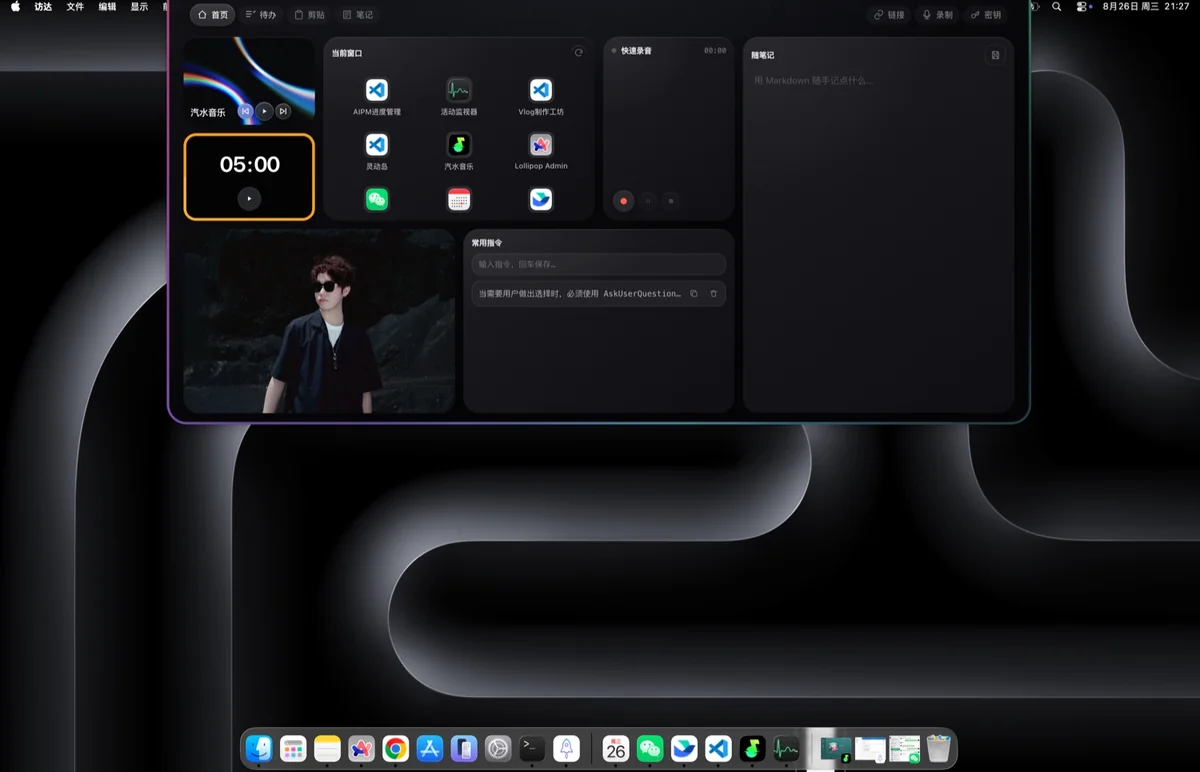
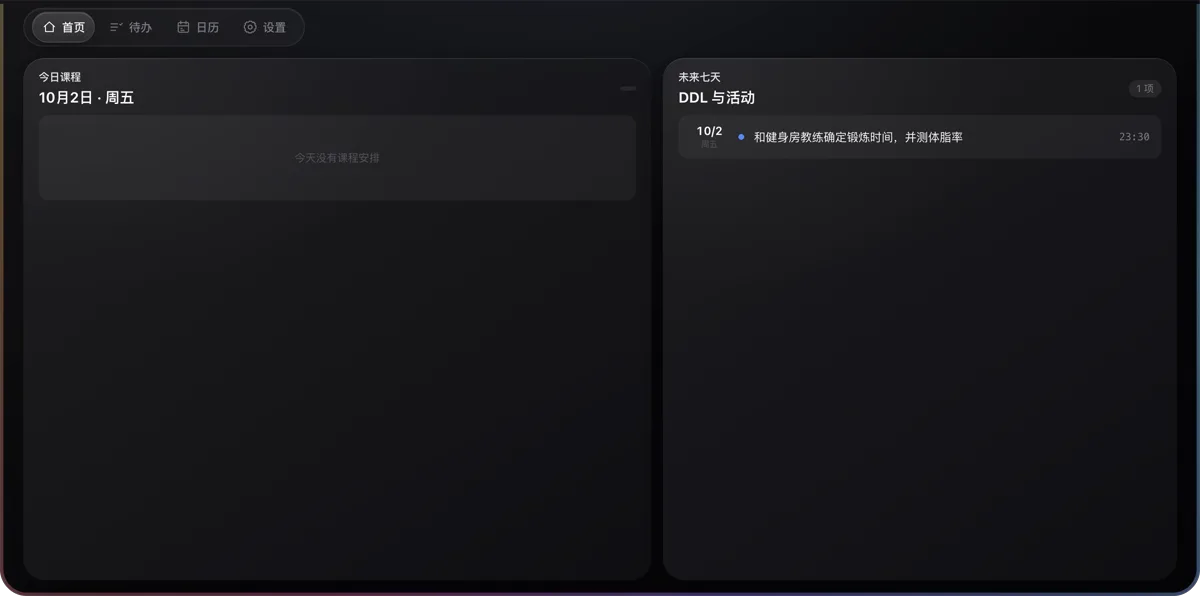
feat: TO-DO Panel 条目更新到 1.2.5（日历/课表导入/三档提醒）+ 实机截图

diff --git a/非交付部分/V3/homepage/src/data/site.js b/非交付部分/V3/homepage/src/data/site.js
@@ -242,31 +242,36 @@ export const projects = [
     id: 'todo-panel',
     icon: '📌',
     title: 'TO-DO Panel 桌面面板定制',
-    short: '给开源桌面面板加上数据写入通道与新组件（上游：xiaopu-ai/TO-DO Panel）',
-    desc: 'TO-DO Panel 是一个常驻 macOS / Windows 屏幕顶部的本地工作台（MIT 开源）。我在自己机器上对它做了本地定制：<strong>加了一条可靠的数据写入通道</strong>，并把课程表与所有作业截止日期统一接进来。',
+    short: '给开源桌面面板加数据写入通道、日历页与课表导入，从 1.1 深度定制到 1.2.5（上游：xiaopu-ai/TO-DO Panel）',
+    desc: 'TO-DO Panel 是一个常驻 macOS / Windows 屏幕顶部的本地工作台（MIT 开源）。我在自己机器上对它做了一路深度定制：先加了<strong>可靠的数据写入通道</strong>，再自己长出<strong>日历页、学期课表导入、今日课程 + 未来七天首页、三档截止提醒</strong>，把它从一个通用面板改成了自己的学业中枢。',
     tech: 'Electron / JavaScript',
     role: '本地二次开发（上游：xiaopu-ai/TO-DO Panel，MIT 许可）',
     images: [
-      { src: asset('projects/todo-panel/card.webp'), alt: 'TO-DO Panel 工作台：音乐/番茄钟/随笔记等模块' },
-      { src: asset('projects/todo-panel/home.webp'), alt: 'TO-DO Panel 首页工作台' },
-      { src: asset('projects/todo-panel/todo.webp'), alt: 'TO-DO Panel 待办页面' },
+      { src: asset('projects/todo-panel/calendar.webp'), alt: '日历页：月视图 + 真实学期课表 + 右侧当天安排（均为自己加的 1.2.x 功能）' },
+      { src: asset('projects/todo-panel/home.webp'), alt: '首页改版：今日课程 + 未来七天 DDL（1.2.2）' },
+      { src: asset('projects/todo-panel/todo.webp'), alt: '待办页面：课表与作业截止统一进四个象限' },
+      { src: asset('projects/todo-panel/card.webp'), alt: '工作台全貌：音乐/番茄钟/随笔记等模块' },
     ],
-    long: `> **先说清楚边界**：TO-DO Panel 是 **xiaopu-ai 开发的开源项目**（MIT 许可），不是我原创的产品。我做的是**本机二次开发**——在它上面补我想要的能力。这一条对课程和面试都重要，所以写在最前面。
+    long: `> **先说清楚边界**：TO-DO Panel 是 **xiaopu-ai 开发的开源项目**（MIT 许可），不是我原创的产品。我做的是**本机二次开发**——从 1.1 一路定制到自己的 1.2.5，下面每一项都是我加的。这一条对课程和面试都重要，所以写在最前面。
 
-### 它原本的痛点
-这个面板把数据存在浏览器本地存储里，**渲染层每 2 秒会把整份数据回写一次**。所以想用脚本往里面加任务，直接改数据文件必然被冲掉。
+### 第一步：打通数据（解决"灌不进去"）
+面板把数据存在浏览器本地存储里，**渲染层每 2 秒会把整份数据回写一次**——脚本直接改数据文件必然被冲掉。我加了一条 **HTTP 写入通道**：主进程接收请求、经 IPC 交给渲染层，让渲染层自己落盘，从根上绕开回写。现在一条命令就能把课表和待办批量灌进去，还能查询与删除。
 
-### 我做的改造
-- **加了一条 HTTP 写入通道**：由主进程接收请求、通过 IPC 交给渲染层，让**渲染层自己落盘**，从根上绕开被回写冲掉的问题。现在可以用一条命令把课表和待办批量灌进去，还能查询与删除
-- **接入了我的真实学业数据**：课程表（学期、课程、上课时间与周次）、作业截止日期、任务分类标签，全部统一进四个象限
-- **把流程固化下来**：写了「备份 → 改 → 语法检查 → 跑测试 → 重签 → 重启并端到端验证」的固定六步流程，并沉淀成一个可复用的技能；另配了一个专职子 agent 负责日程汇总与面板改装
+### 第二步：长出自己的功能（1.2.0 → 1.2.5）
+写入通道有了之后，围绕"把学业真正管起来"连做了五个版本：
+- **日历页（1.2.0）**：月视图大格子（周一起始、相邻月淡显），年月切换 + 今天回跳，右侧"当天安排"栏聚合当天课程与截止作业
+- **学期课表导入（1.2.1）**：写规则 JSON（学期周次、起止窗口、假期排除、单日特殊时段），自动按周展开成具体日期课次；重复导入幂等覆盖，手动加的课不受影响
+- **首页改版（1.2.2）**：改成"今日课程 + 未来七天"——左边当天课的时间/教室/教师，右边未来 7 天 DDL 按截止时间排序；课表导入同时携带作业待办，幂等合并进提醒体系
+- **三档截止提醒（1.2.3）**：从"到期前 1 小时提醒一次"改成提前两天/一天/12 小时各提醒一次，刚导入时已错过的档位自动跳过、不补发过期提醒
+- **两个真 bug 修复（1.2.4/1.2.5）**：日期弹层被圆角规则误裁到滚不动；输入框打字时输入法候选条被置顶层盖住——聚焦时窗口临时降层让候选条浮上来，失焦立即恢复
 
-### 踩过的坑（印象最深的一个）
-Electron 应用改完代码**必须重新签名**，而且必须**由内到外**逐层签、带上 entitlements。只签外层会让里面的框架身份不一致，macOS 直接拒绝加载，应用就**打不开**了。后来想明白了更省事的办法：只改 JavaScript 资源其实根本不用重签，可以完全绕开这个坑。
+### 踩过的坑（挑最疼的）
+- **重签名的坑**：Electron 应用改完代码必须重新签名，而且必须**由内到外**逐层签、带 entitlements——只签外层会因内层框架身份不一致被 macOS 拒载，应用直接打不开。后来想明白了更省事的办法：只改 JavaScript 资源根本不用重签
+- **窗口层级的坑**：面板常驻最高层是为了躲开菜单栏，但这个层级也会盖住系统输入法候选条——两个需求打架。解法是聚焦时临时降层、失焦恢复，"该高的时候高，该让的时候让"
 
-### 额外说明
-面板的自动更新会覆盖本地改动，所以每次更新后需要按流程把补丁重新打一遍——这套流程已经写在技能里，重打成本很低。`,
-    highlights: ['上游为 MIT 开源项目（非原创）', '自研 HTTP 写入通道', '重签与端到端验证流程'],
+### 把流程固化下来
+写了「备份 → 改 → 语法检查 → 跑测试 → 重签 → 重启端到端验证」六步流程并沉淀成可复用技能；上游自动更新会覆盖本地改动，更新后按技能重打补丁，成本很低。`,
+    highlights: ['上游为 MIT 开源项目（非原创）', '自研 HTTP 写入通道', '日历页 / 课表导入 / 三档提醒五个版本'],
   },
 ]
 

diff --git a/非交付部分/V3/homepage/src/data/bot-qa.js b/非交付部分/V3/homepage/src/data/bot-qa.js
@@ -122,7 +122,7 @@ export const botQa = [
     q: '第五个：TO-DO Panel 是什么？',
     keys: ['todo', '待办', '面板', '课程表', '第五个项目'],
     also: ['todopanel', 'todo面板', '桌面面板'],
-    a: 'TO-DO Panel 是 xiaopu-ai 的开源桌面面板（MIT 许可），他在本机做了二次开发：加了 HTTP 写入通道（解决数据被回写冲掉的问题），把课程表和作业截止日期统一接了进去。',
+    a: 'TO-DO Panel 是 xiaopu-ai 的开源桌面面板（MIT 许可），他在本机做了深度二次开发：先加 HTTP 写入通道解决数据被回写冲掉的问题，然后自己连做了五个版本——日历页、学期课表导入（规则 JSON 按周展开、幂等覆盖）、首页改版成「今日课程+未来七天」、三档截止提醒（提前两天/一天/12 小时）、还修了输入法候选条被置顶层盖住的真 bug。上游是他人的，这些定制是他做的。',
     links: [{ label: '看项目详情', to: '/project/todo-panel' }],
     suggest: ['回写问题怎么解决的？'],
   },

diff --git a/非交付部分/V3/homepage/src/data/image-sizes.js b/非交付部分/V3/homepage/src/data/image-sizes.js
@@ -338,17 +338,21 @@ export const imageSizes = {
     "w": 1200,
     "h": 1171
   },
+  "projects/todo-panel/calendar.webp": {
+    "w": 1200,
+    "h": 596
+  },
   "projects/todo-panel/card.webp": {
     "w": 1100,
     "h": 687
   },
   "projects/todo-panel/home.webp": {
     "w": 1200,
-    "h": 772
+    "h": 596
   },
   "projects/todo-panel/todo.webp": {
     "w": 1200,
-    "h": 775
+    "h": 596
   },
   "projects/weiguan-yifang/bg.webp": {
     "w": 1200,
